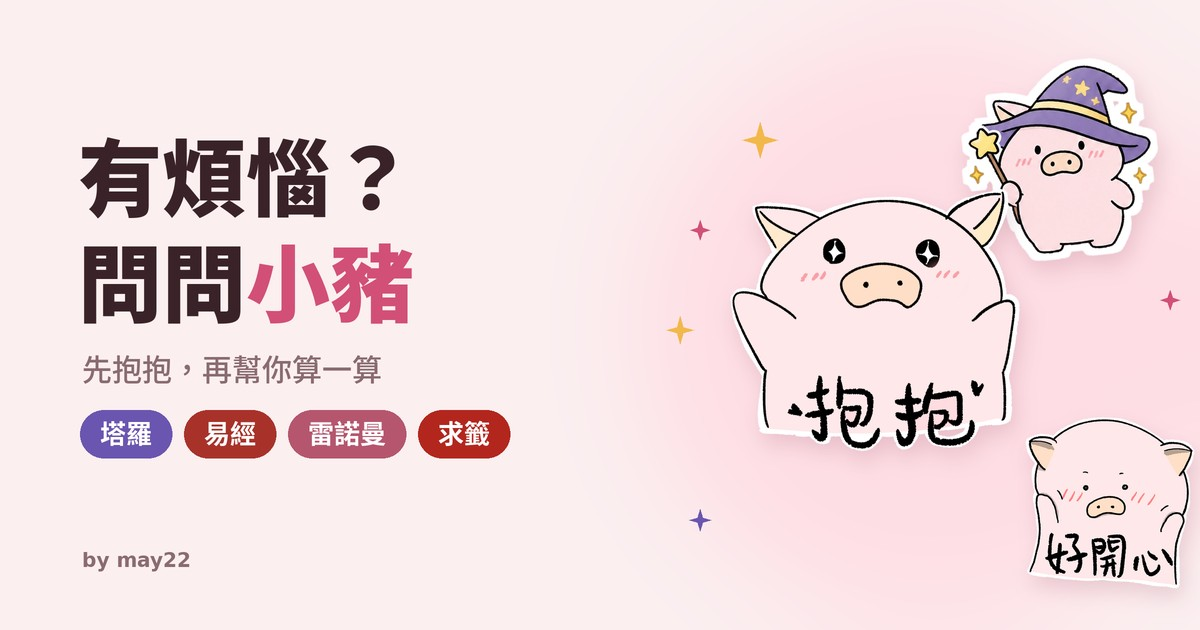
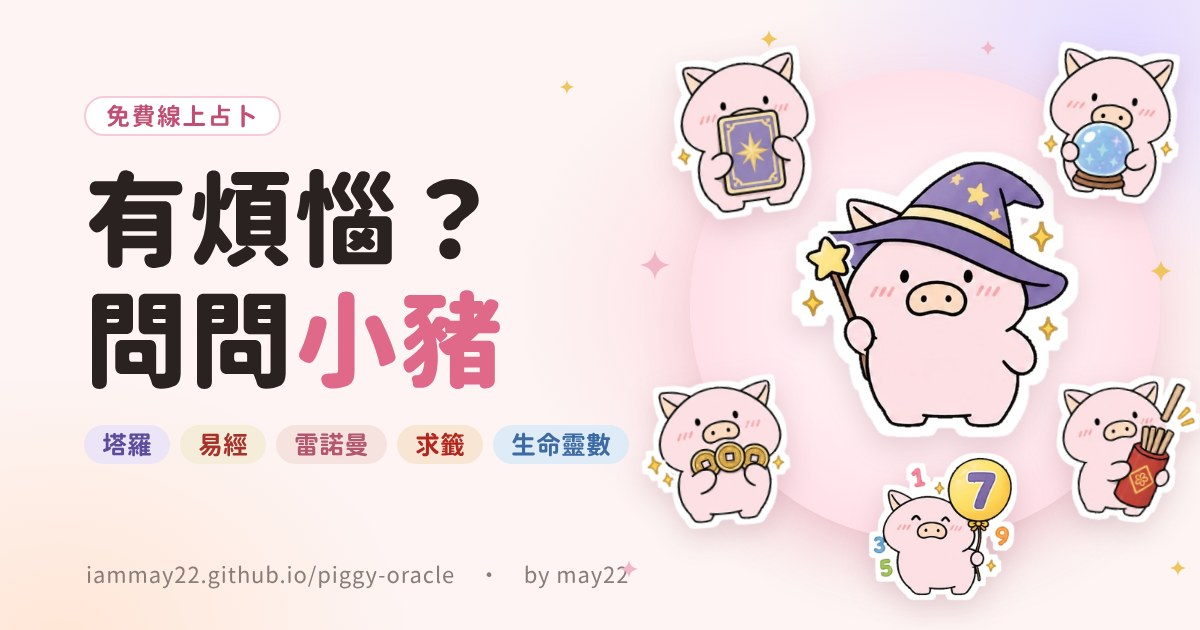
換新的連結預覽圖：圓體字、六隻占卜小豬、補上生命靈數
Claude-Session: https://claude.ai/code/session_015GEBaj5tArv6UQ7QK8qBDd

diff --git a/numerology.html b/numerology.html
@@ -10,11 +10,11 @@
 <meta property="og:title" content="生命靈數｜問問小豬">
 <meta property="og:description" content="輸入生日算出你的生命靈數和生日九宮格，也能和朋友、另一半、同事、家人配對，看看你們合不合。">
 <meta property="og:url" content="https://iammay22.github.io/piggy-oracle/numerology.html">
-<meta property="og:image" content="https://iammay22.github.io/piggy-oracle/og-image.jpg">
+<meta property="og:image" content="https://iammay22.github.io/piggy-oracle/og-image.jpg?v=2">
 <meta property="og:image:width" content="1200">
 <meta property="og:image:height" content="630">
 <meta name="twitter:card" content="summary_large_image">
-<meta name="twitter:image" content="https://iammay22.github.io/piggy-oracle/og-image.jpg">
+<meta name="twitter:image" content="https://iammay22.github.io/piggy-oracle/og-image.jpg?v=2">
 <link rel="stylesheet" href="theme.css">
 <script src="stats.js"></script>
 <script src="sound.js" defer></script>

diff --git a/qian.html b/qian.html
@@ -10,11 +10,11 @@
 <meta property="og:title" content="擲筊求籤｜問問小豬">
 <meta property="og:description" content="線上擲筊抽六十甲子籤：擲到聖筊才能抽籤，附籤詩原文、白話解釋和感情、工作、財運的說法。">
 <meta property="og:url" content="https://iammay22.github.io/piggy-oracle/qian.html">
-<meta property="og:image" content="https://iammay22.github.io/piggy-oracle/og-image.jpg">
+<meta property="og:image" content="https://iammay22.github.io/piggy-oracle/og-image.jpg?v=2">
 <meta property="og:image:width" content="1200">
 <meta property="og:image:height" content="630">
 <meta name="twitter:card" content="summary_large_image">
-<meta name="twitter:image" content="https://iammay22.github.io/piggy-oracle/og-image.jpg">
+<meta name="twitter:image" content="https://iammay22.github.io/piggy-oracle/og-image.jpg?v=2">
 <link rel="stylesheet" href="theme.css">
 <script src="stats.js"></script>
 <script src="sound.js" defer></script>

diff --git a/index.html b/index.html
@@ -11,11 +11,11 @@
 <meta property="og:title" content="問問小豬｜塔羅・易經・雷諾曼">
 <meta property="og:description" content="有煩惱？問問小豬。免費線上塔羅、易經起卦、雷諾曼占卜，挑一種方式把問題交給牠。">
 <meta property="og:url" content="https://iammay22.github.io/piggy-oracle/">
-<meta property="og:image" content="https://iammay22.github.io/piggy-oracle/og-image.jpg">
+<meta property="og:image" content="https://iammay22.github.io/piggy-oracle/og-image.jpg?v=2">
 <meta property="og:image:width" content="1200">
 <meta property="og:image:height" content="630">
 <meta name="twitter:card" content="summary_large_image">
-<meta name="twitter:image" content="https://iammay22.github.io/piggy-oracle/og-image.jpg">
+<meta name="twitter:image" content="https://iammay22.github.io/piggy-oracle/og-image.jpg?v=2">
 
 <meta name="claude:viewport-fit-sides" content="cover">
 <link rel="stylesheet" href="theme.css">

diff --git a/iching.html b/iching.html
@@ -12,11 +12,11 @@
 <meta property="og:title" content="易經起卦｜問問小豬">
 <meta property="og:description" content="擲銅錢、姓名或數字起卦，看本卦變卦，直接告訴你這次最該讀哪一句。">
 <meta property="og:url" content="https://iammay22.github.io/piggy-oracle/iching.html">
-<meta property="og:image" content="https://iammay22.github.io/piggy-oracle/og-image.jpg">
+<meta property="og:image" content="https://iammay22.github.io/piggy-oracle/og-image.jpg?v=2">
 <meta property="og:image:width" content="1200">
 <meta property="og:image:height" content="630">
 <meta name="twitter:card" content="summary_large_image">
-<meta name="twitter:image" content="https://iammay22.github.io/piggy-oracle/og-image.jpg">
+<meta name="twitter:image" content="https://iammay22.github.io/piggy-oracle/og-image.jpg?v=2">
 <link rel="stylesheet" href="theme.css">
 <script src="stats.js"></script>
 <script src="sound.js" defer></script>

diff --git a/tarot.html b/tarot.html
@@ -12,11 +12,11 @@
 <meta property="og:title" content="塔羅牌｜問問小豬">
 <meta property="og:description" content="78 張萊德偉特塔羅，洗牌、切牌、親手抽牌，附正逆位與整體解讀。">
 <meta property="og:url" content="https://iammay22.github.io/piggy-oracle/tarot.html">
-<meta property="og:image" content="https://iammay22.github.io/piggy-oracle/og-image.jpg">
+<meta property="og:image" content="https://iammay22.github.io/piggy-oracle/og-image.jpg?v=2">
 <meta property="og:image:width" content="1200">
 <meta property="og:image:height" content="630">
 <meta name="twitter:card" content="summary_large_image">
-<meta name="twitter:image" content="https://iammay22.github.io/piggy-oracle/og-image.jpg">
+<meta name="twitter:image" content="https://iammay22.github.io/piggy-oracle/og-image.jpg?v=2">
 <link rel="stylesheet" href="theme.css">
 <script src="stats.js"></script>
 <script src="sound.js" defer></script>

diff --git a/lenormand.html b/lenormand.html
@@ -12,11 +12,11 @@
 <meta property="og:title" content="雷諾曼｜問問小豬">
 <meta property="og:description" content="36 張經典雷諾曼牌，三張連成一句話，適合問最近會發生什麼。">
 <meta property="og:url" content="https://iammay22.github.io/piggy-oracle/lenormand.html">
-<meta property="og:image" content="https://iammay22.github.io/piggy-oracle/og-image.jpg">
+<meta property="og:image" content="https://iammay22.github.io/piggy-oracle/og-image.jpg?v=2">
 <meta property="og:image:width" content="1200">
 <meta property="og:image:height" content="630">
 <meta name="twitter:card" content="summary_large_image">
-<meta name="twitter:image" content="https://iammay22.github.io/piggy-oracle/og-image.jpg">
+<meta name="twitter:image" content="https://iammay22.github.io/piggy-oracle/og-image.jpg?v=2">
 <link rel="stylesheet" href="theme.css">
 <script src="stats.js"></script>
 <script src="sound.js" defer></script>

diff --git a/_build/build.py b/_build/build.py
@@ -349,11 +349,11 @@ def meta(p):
 <meta property="og:title" content="{t}">
 <meta property="og:description" content="{dsc}">
 <meta property="og:url" content="{url}">
-<meta property="og:image" content="{DOM}/og-image.jpg">
+<meta property="og:image" content="{DOM}/og-image.jpg?v=2">
 <meta property="og:image:width" content="1200">
 <meta property="og:image:height" content="630">
 <meta name="twitter:card" content="summary_large_image">
-<meta name="twitter:image" content="{DOM}/og-image.jpg">
+<meta name="twitter:image" content="{DOM}/og-image.jpg?v=2">
 <link rel="stylesheet" href="theme.css">
 <script src="stats.js"></script>
 <script src="sound.js" defer></script>
